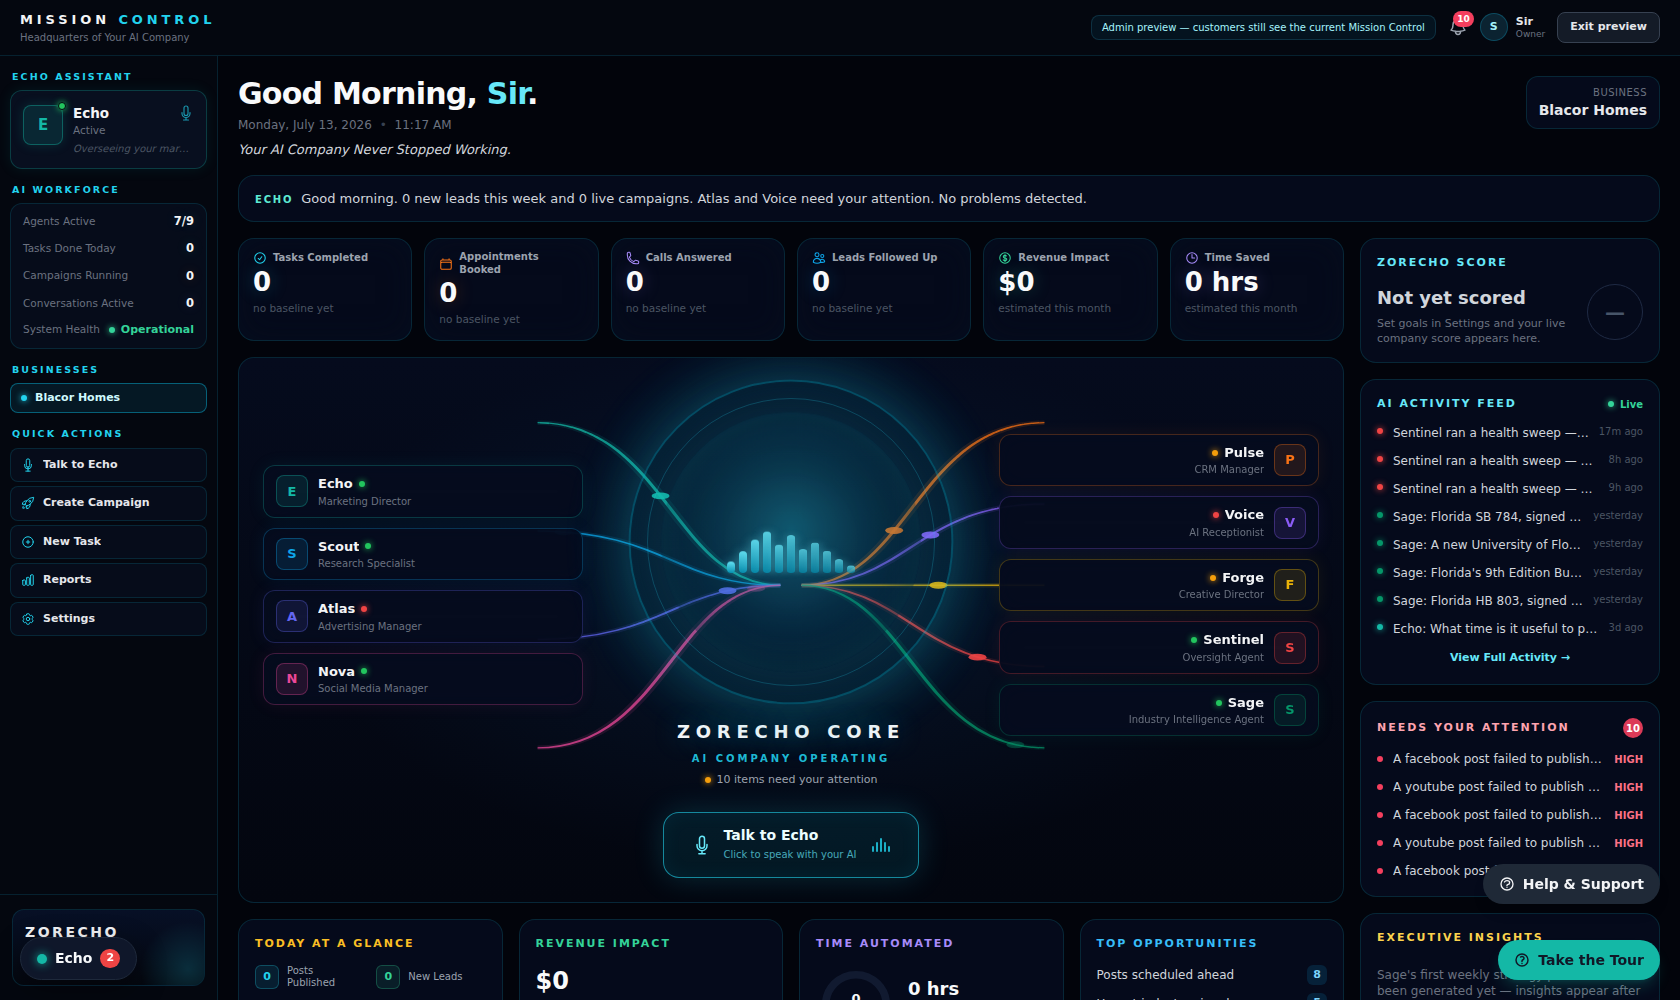
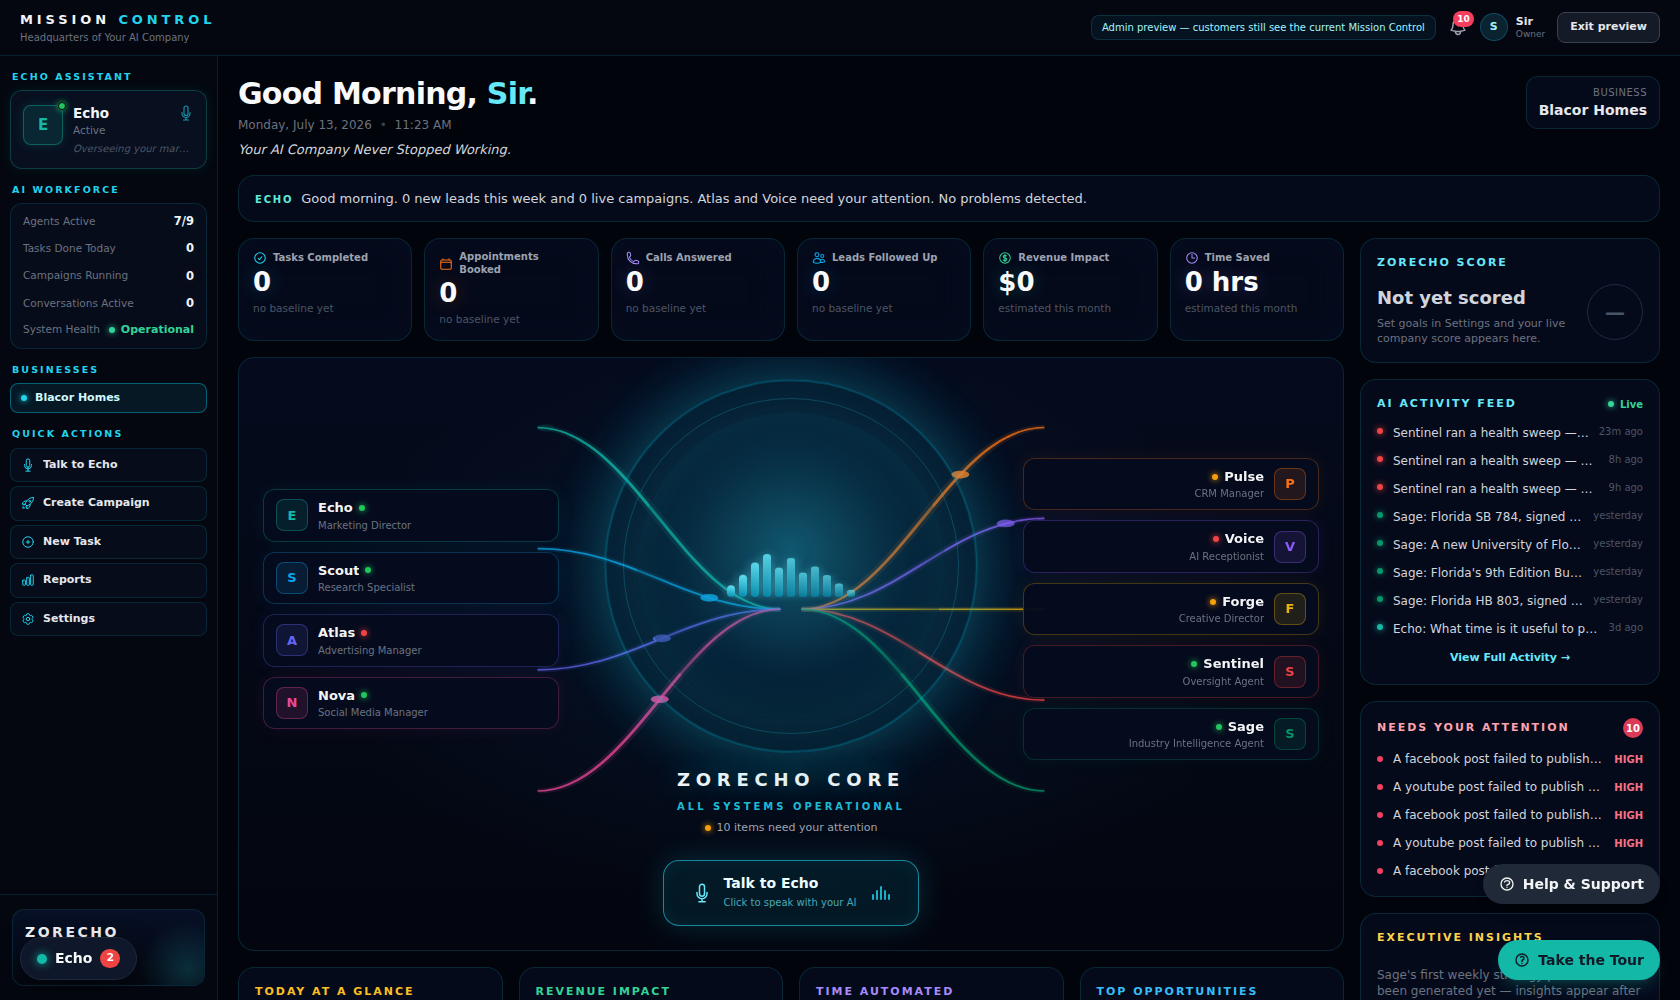
Pass 3 — final Core "wow" polish per owner feedback (feature-freeze scope)
Only the Core, voice interactions, and animation details changed — sidebar,
KPI row, right rail, Needs Attention, Executive Insights, and bottom
analytics untouched per explicit freeze.

- Core enlarged ~15% (18.5rem / 23rem on desktop) — unquestionable centerpiece.
- Waveform is alive when Echo speaks: fuller/faster bar animation
  (mcv2barspeak), brightness + glow boost on bars and core, both rings pulse;
  .7s filter transitions settle everything back down when Echo stops.
- Connector curves softened (spread Bezier control points) and traveling
  energy pulses slowed (3.8–5.0s, wider stagger) for a more premium feel.
- Idle center label "AI Company Operating" → "All Systems Operational".
- Sidebar Echo card: mic glows (drop-shadow) and the green status dot pulses
  whenever voice is active — same live convState as the Core, so all three
  react together as one system.
- Architect review caught a reduced-motion regression (speaking selectors
  out-specified the media-query reset) — fixed by listing the state selectors
  inside prefers-reduced-motion explicitly.
- sw.js cache v78→v79; client rebuilt (index-CGZFCOdT.js); 343/343 client
  tests green.

diff --git a/EchoAI/client/src/missioncontrol/MissionControlV2.jsx b/EchoAI/client/src/missioncontrol/MissionControlV2.jsx
@@ -244,26 +244,33 @@ export default function MissionControlV2({
       data-testid="mission-control-v2"
     >
       <style>{`
-        .mcv2 .mcv2-core-bar { animation: mcv2bar 2.6s ease-in-out infinite; transform-origin: bottom; }
-        .mcv2 .mcv2-core { animation: mcv2breathe 5s ease-in-out infinite; }
+        .mcv2 .mcv2-core-bar { animation: mcv2bar 2.6s ease-in-out infinite; transform-origin: bottom; transition: filter .7s ease; }
+        .mcv2 .mcv2-core { animation: mcv2breathe 5s ease-in-out infinite; transition: filter .7s ease; }
         .mcv2 .mcv2-core-ring { animation: mcv2ringbreathe 7s ease-in-out infinite; transition: transform .6s ease; }
         .mcv2 .mcv2-core-ring-slow { animation: mcv2ring 6s ease-in-out 1.2s infinite; }
         .mcv2 .mcv2-orbit { animation: mcv2orbit 3.2s linear infinite; }
         /* Listening — the outer ring expands slightly */
         .mcv2 .mcv2-listening .mcv2-core-ring { animation: mcv2ringlisten 2.4s ease-in-out infinite; }
-        /* Speaking — the whole core comes alive: faster waveform, brighter rings */
-        .mcv2 .mcv2-speaking .mcv2-core-bar { animation-duration: .85s; }
-        .mcv2 .mcv2-speaking .mcv2-core { animation-duration: 1.8s; }
-        .mcv2 .mcv2-speaking .mcv2-core-ring { animation: mcv2ringbright 1.8s ease-in-out infinite; }
+        /* Speaking — the whole core comes alive: faster/fuller waveform, brighter
+           glow, pulsing rings. The .7s filter transitions above let everything
+           settle back down smoothly when Echo stops. */
+        .mcv2 .mcv2-speaking .mcv2-core-bar { animation: mcv2barspeak .8s ease-in-out infinite; filter: brightness(1.3) drop-shadow(0 0 6px rgba(103,232,249,0.7)); }
+        .mcv2 .mcv2-speaking .mcv2-core { animation-duration: 1.8s; filter: brightness(1.35); }
+        .mcv2 .mcv2-speaking .mcv2-core-ring { animation: mcv2ringspeak 1.6s ease-in-out infinite; }
+        .mcv2 .mcv2-speaking .mcv2-core-ring-slow { animation: mcv2ringspeak 1.6s ease-in-out .4s infinite; }
         @keyframes mcv2bar { 0%,100% { transform: scaleY(0.55); opacity:.7 } 50% { transform: scaleY(1); opacity:1 } }
         @keyframes mcv2ring { 0%,100% { opacity:.5 } 50% { opacity:.9 } }
         @keyframes mcv2ringlisten { 0%,100% { opacity:.75; transform: scale(1.05) } 50% { opacity:1; transform: scale(1.09) } }
         @keyframes mcv2breathe { 0%,100% { opacity:.82; transform: scale(1) } 50% { opacity:1; transform: scale(1.025) } }
         @keyframes mcv2ringbreathe { 0%,100% { opacity:.5; transform: scale(1) } 50% { opacity:.85; transform: scale(1.015) } }
         @keyframes mcv2ringbright { 0%,100% { opacity:.7 } 50% { opacity:1 } }
+        @keyframes mcv2barspeak { 0%,100% { transform: scaleY(0.35); opacity:.75 } 50% { transform: scaleY(1.12); opacity:1 } }
+        @keyframes mcv2ringspeak { 0%,100% { opacity:.7; transform: scale(1) } 50% { opacity:1; transform: scale(1.03) } }
         @keyframes mcv2orbit { from { transform: rotate(0deg) } to { transform: rotate(360deg) } }
         @media (prefers-reduced-motion: reduce) {
-          .mcv2 .mcv2-core-bar, .mcv2 .mcv2-core, .mcv2 .mcv2-core-ring, .mcv2 .mcv2-core-ring-slow, .mcv2 .mcv2-orbit { animation: none; }
+          .mcv2 .mcv2-core-bar, .mcv2 .mcv2-core, .mcv2 .mcv2-core-ring, .mcv2 .mcv2-core-ring-slow, .mcv2 .mcv2-orbit,
+          .mcv2 .mcv2-speaking .mcv2-core-bar, .mcv2 .mcv2-speaking .mcv2-core, .mcv2 .mcv2-speaking .mcv2-core-ring, .mcv2 .mcv2-speaking .mcv2-core-ring-slow,
+          .mcv2 .mcv2-listening .mcv2-core-ring { animation: none; }
           .mcv2 .mcv2-line-pulse { display: none; }
         }
       `}</style>

diff --git a/EchoAI/client/src/missioncontrol/CoreHero.jsx b/EchoAI/client/src/missioncontrol/CoreHero.jsx
@@ -56,12 +56,12 @@ function Connectors({ left, right }) {
   left.forEach((a, i) => {
     const meta = AGENTS_META.find((m) => m.id === a.id) || {};
     const y = yFor(left.length, i);
-    paths.push({ d: `M 26,${y} C 38,${y} 39,50 49,50`, color: meta.color || "#22d3ee", key: `l-${a.id}` });
+    paths.push({ d: `M 26,${y} C 35,${y} 40,50 49,50`, color: meta.color || "#22d3ee", key: `l-${a.id}` });
   });
   right.forEach((a, i) => {
     const meta = AGENTS_META.find((m) => m.id === a.id) || {};
     const y = yFor(right.length, i);
-    paths.push({ d: `M 74,${y} C 62,${y} 61,50 51,50`, color: meta.color || "#22d3ee", key: `r-${a.id}` });
+    paths.push({ d: `M 74,${y} C 65,${y} 60,50 51,50`, color: meta.color || "#22d3ee", key: `r-${a.id}` });
   });
   return (
     <svg
@@ -78,17 +78,17 @@ function Connectors({ left, right }) {
               toward the core, staggered per line so they never sync up. */}
           <circle r="0.85" fill={p.color} opacity="0" className="mcv2-line-pulse">
             <animateMotion
-              dur={`${2.6 + (idx % 3) * 0.5}s`}
-              begin={`${idx * 0.45}s`}
+              dur={`${3.8 + (idx % 3) * 0.6}s`}
+              begin={`${idx * 0.65}s`}
               repeatCount="indefinite"
               path={p.d}
             />
             <animate
               attributeName="opacity"
-              values="0;0.9;0.9;0"
+              values="0;0.85;0.85;0"
               keyTimes="0;0.15;0.85;1"
-              dur={`${2.6 + (idx % 3) * 0.5}s`}
-              begin={`${idx * 0.45}s`}
+              dur={`${3.8 + (idx % 3) * 0.6}s`}
+              begin={`${idx * 0.65}s`}
               repeatCount="indefinite"
             />
           </circle>
@@ -132,7 +132,7 @@ export default function CoreHero({ agents, onOpenDepartment, onTalkToEcho, statu
           </div>
 
           <div className="relative z-10 flex flex-col items-center px-1 sm:px-8">
-            <div className="relative flex h-64 w-64 items-center justify-center sm:h-80 sm:w-80">
+            <div className="relative flex h-[18.5rem] w-[18.5rem] items-center justify-center sm:h-[23rem] sm:w-[23rem]">
               <div className="mcv2-core-ring absolute inset-0 rounded-full border-2 border-cyan-500/40" style={{ boxShadow: "0 0 70px rgba(34,211,238,0.32), inset 0 0 45px rgba(34,211,238,0.1)" }} />
               <div className="mcv2-core-ring-slow absolute inset-4 rounded-full border border-cyan-400/25" />
               {/* Thinking state — subtle orbiting particles around the core */}
@@ -143,7 +143,7 @@ export default function CoreHero({ agents, onOpenDepartment, onTalkToEcho, statu
                       key={deg}
                       className="absolute left-1/2 top-1/2 h-1.5 w-1.5 rounded-full bg-cyan-300"
                       style={{
-                        transform: `rotate(${deg}deg) translateX(calc(50% + 7.2rem))`,
+                        transform: `rotate(${deg}deg) translateX(calc(50% + 8.4rem))`,
                         boxShadow: "0 0 8px rgba(103,232,249,0.9)",
                       }}
                     />
@@ -182,7 +182,7 @@ export default function CoreHero({ agents, onOpenDepartment, onTalkToEcho, statu
                     ? "Echo Thinking"
                     : coreState === "listening"
                       ? "Echo Listening"
-                      : "AI Company Operating"}
+                      : "All Systems Operational"}
               </div>
               <div className="mt-1.5 flex items-center justify-center gap-1.5 text-[11px] text-gray-400">
                 <span

diff --git a/EchoAI/client/src/missioncontrol/ExecutiveSidebar.jsx b/EchoAI/client/src/missioncontrol/ExecutiveSidebar.jsx
@@ -136,8 +136,12 @@ export default function ExecutiveSidebar({
               >
                 E
                 <span
-                  className="absolute -right-1 -top-1 h-2 w-2 rounded-full border border-[#04070f]"
-                  style={{ backgroundColor: echoStatus, boxShadow: `0 0 6px ${echoStatus}` }}
+                  className={`absolute -right-1 -top-1 h-2 w-2 rounded-full border border-[#04070f] ${voiceState ? "animate-pulse" : ""}`}
+                  style={{
+                    backgroundColor: echoStatus,
+                    boxShadow: voiceState ? `0 0 10px ${echoStatus}, 0 0 4px ${echoStatus}` : `0 0 6px ${echoStatus}`,
+                  }}
+                  data-testid="sidebar-echo-dot"
                 />
               </span>
               <span className="min-w-0 flex-1">
@@ -153,6 +157,7 @@ export default function ExecutiveSidebar({
                     )}
                     <svg
                       className={`relative h-4 w-4 ${micLive || voiceState ? "text-cyan-300" : "text-cyan-400/70 group-hover:text-cyan-300"}`}
+                      style={micLive || voiceState ? { filter: "drop-shadow(0 0 5px rgba(103,232,249,0.9))" } : undefined}
                       fill="none"
                       viewBox="0 0 24 24"
                       strokeWidth={1.7}

diff --git a/EchoAI/client/public/sw.js b/EchoAI/client/public/sw.js
@@ -15,7 +15,7 @@
 // index.html + hashed JS/CSS. Without a bump, a returning PWA user keeps being
 // served the old precached shell (old bundle) forever, regardless of HTTP
 // Cache-Control headers — the service worker answers from its own cache first.
-const CACHE = "echoai-shell-v78";
+const CACHE = "echoai-shell-v79";
 
 // The app shell. Hashed Vite asset filenames are cached at runtime (see fetch
 // handler), so we only need the entry points here.

diff --git a/EchoAI/client/src/missioncontrol/CoreHero.state.test.jsx b/EchoAI/client/src/missioncontrol/CoreHero.state.test.jsx
@@ -35,7 +35,7 @@ describe("CoreHero voice-state mapping", () => {
     mockConv.current = null;
     renderHero();
     expect(heroRoot().className).toContain("mcv2-idle");
-    expect(screen.getByText("AI Company Operating")).toBeTruthy();
+    expect(screen.getByText("All Systems Operational")).toBeTruthy();
   });
 
   it("passive → idle", () => {